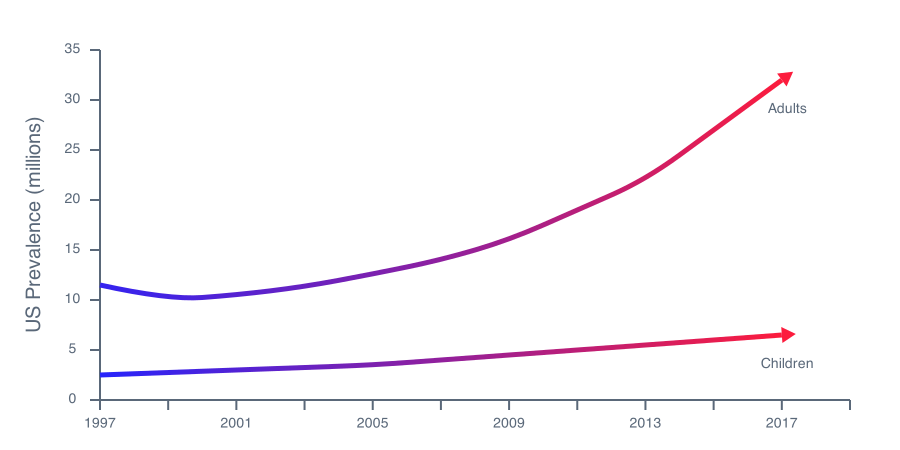
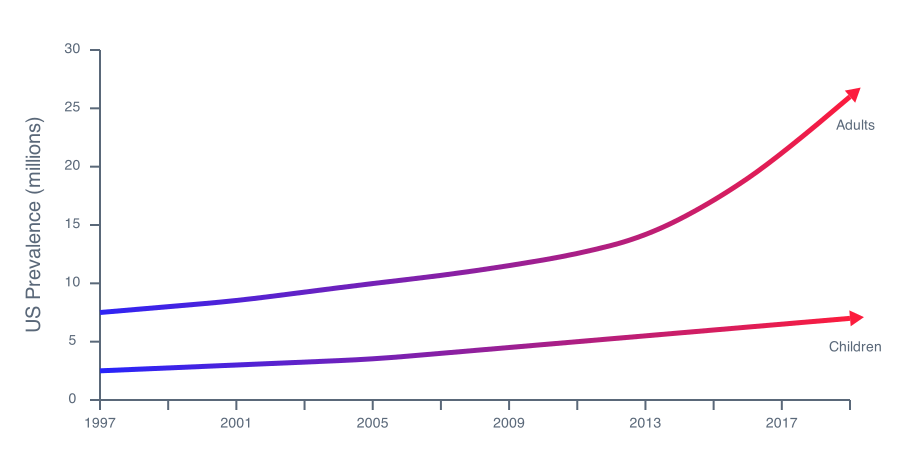
update prevalence graph and fix some rendering for graph gen

diff --git a/scripts/graph-data.js b/scripts/graph-data.js
@@ -20,11 +20,12 @@ exports.prevalance = {
   outputFile: 'generated/prevalence.png',
   datasets: [
     {
-      data: [11.5, 10, 10.5, 11.33, 12.6, 14, 16, 19, 22, 27, 32],
+      //     97   99    01    03   05  07  09  11  13  15  17  19
+      data: [7.5, 8, 8.5, 9.25, 9.99, 10.66, 11.5, 12.5, 14, 17, 21, 26],
       label: 'Adults',
     },
     {
-      data: [2.5, 2.75, 3, 3.25, 3.5, 4, 4.5, 5, 5.5, 6, 6.5],
+      data: [2.5, 2.75, 3, 3.25, 3.5, 4, 4.5, 5, 5.5, 6, 6.5, 7],
       label: 'Children',
     },
   ],
@@ -35,7 +36,7 @@ exports.prevalance = {
     step: 2,
   },
   yAxis: {
-    labels: Array(8)
+    labels: Array(7)
       .fill()
       .map((_, i) => i * 5),
     step: 1,

diff --git a/scripts/graph-generator.js b/scripts/graph-generator.js
@@ -105,7 +105,7 @@ function plotData(
   { length: yAxisLength, labels }
 ) {
   const pixelMappedData = data.map((point, i) => {
-    x = x0 + i * (xAxis.length / data.length)
+    x = x0 + i * (xAxis.length / (data.length - 1))
     y = y0 - point * (yAxisLength / (labels[labels.length - 1] - labels[0]))
     return [x, y]
   })
